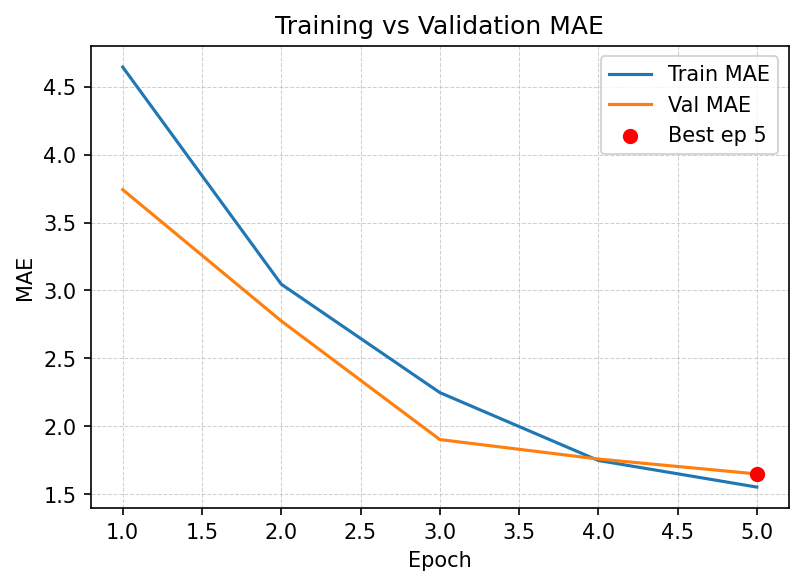
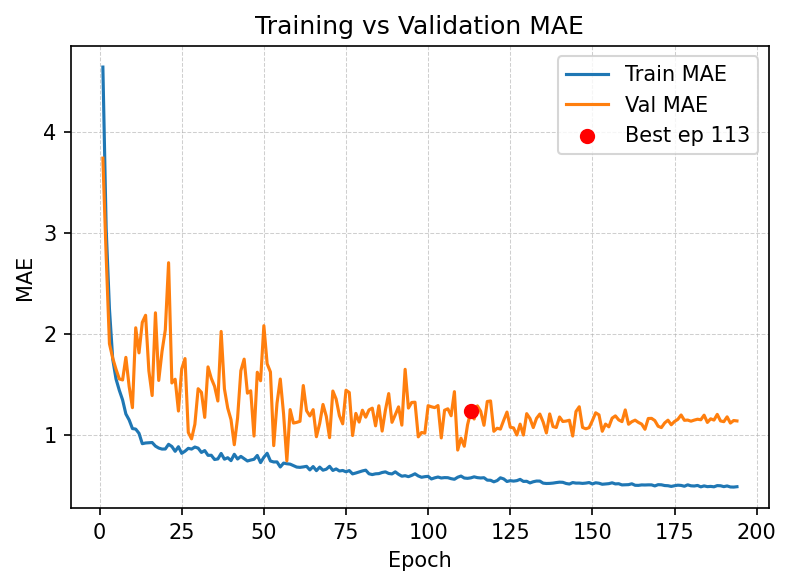
chenges

diff --git a/models/model_v10/train.py b/models/model_v10/train.py
@@ -69,14 +69,14 @@ class TrainConfig:
     weight_decay: float = 1e-3
 
     # OneCycleLR schedule — smooth warm-up → cosine decay per batch
-    onecycle_max_lr: float = 3e-3
+    onecycle_max_lr: float = 1e-3
     onecycle_pct_start: float = 0.3        # fraction of training spent warming up
     onecycle_div_factor: float = 25.0      # initial_lr = max_lr / div_factor
     onecycle_final_div_factor: float = 1e4 # final_lr  = initial_lr / final_div_factor
 
     # ---- split / fold -----------------------------------------------------
     labels_csv: str = "../../datasets/Training/Train.csv"  # for variety + weight info
-    val_per_cell: int = 3  # original images per (variety × weight-regime) cell in val
+    val_per_cell: int = 2  # original images per (variety × weight-regime) cell in val
     val_ratio: float = 0.2
     seed: int = 43
     patience: int = 150
@@ -90,7 +90,7 @@ class TrainConfig:
     embed_dim: int = 96
 
     # ---- regularisation ---------------------------------------------------
-    mixup_alpha: float = 0.4
+    mixup_alpha: float = 0.2
     mixup_prob: float = 0.5
     huber_delta: float = 0.3
     ema_decay: float = 0.995

diff --git a/models/model_v10/preprocess.py b/models/model_v10/preprocess.py
@@ -73,7 +73,7 @@ class PreprocessConfig:
     color_jitter_prob: float = 0.9
     gaussian_blur_prob: float = 0.3
     random_affine_prob: float = 0.4
-    random_erasing_prob: float = 0.3
+    random_erasing_prob: float = 0.15
 
     # ---- sharding ---------------------------------------------------------
     shard_size: int = 256  # samples per .pt file
